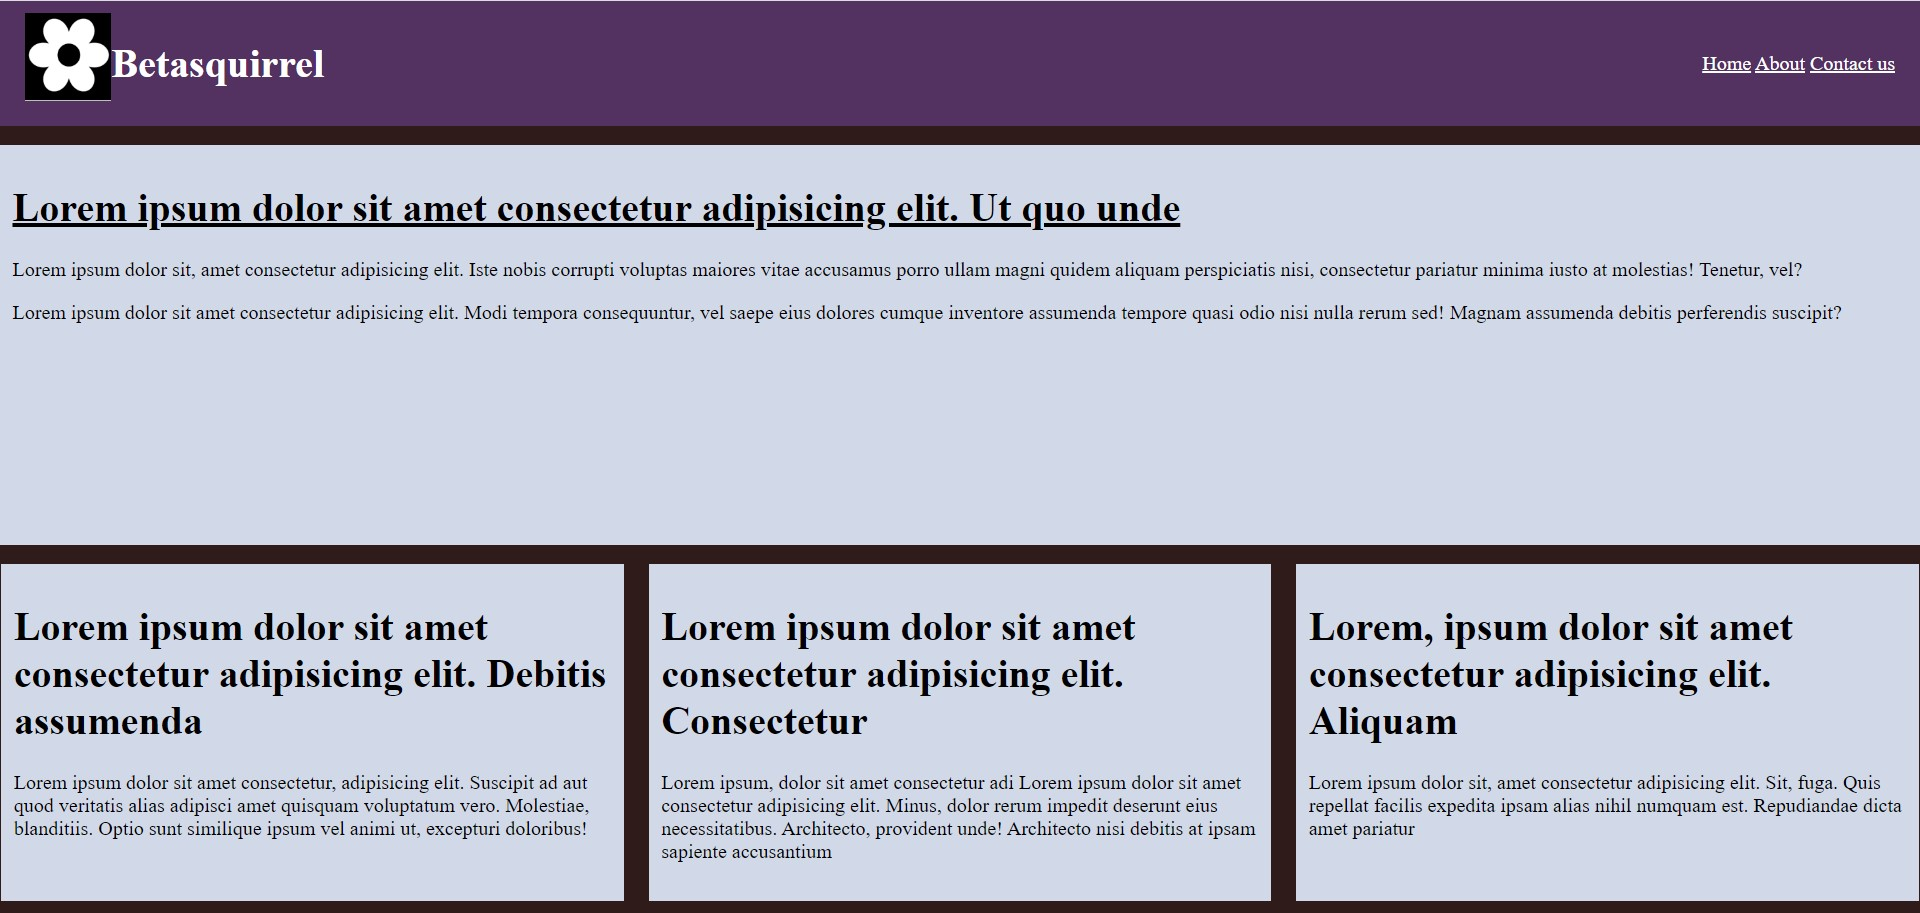
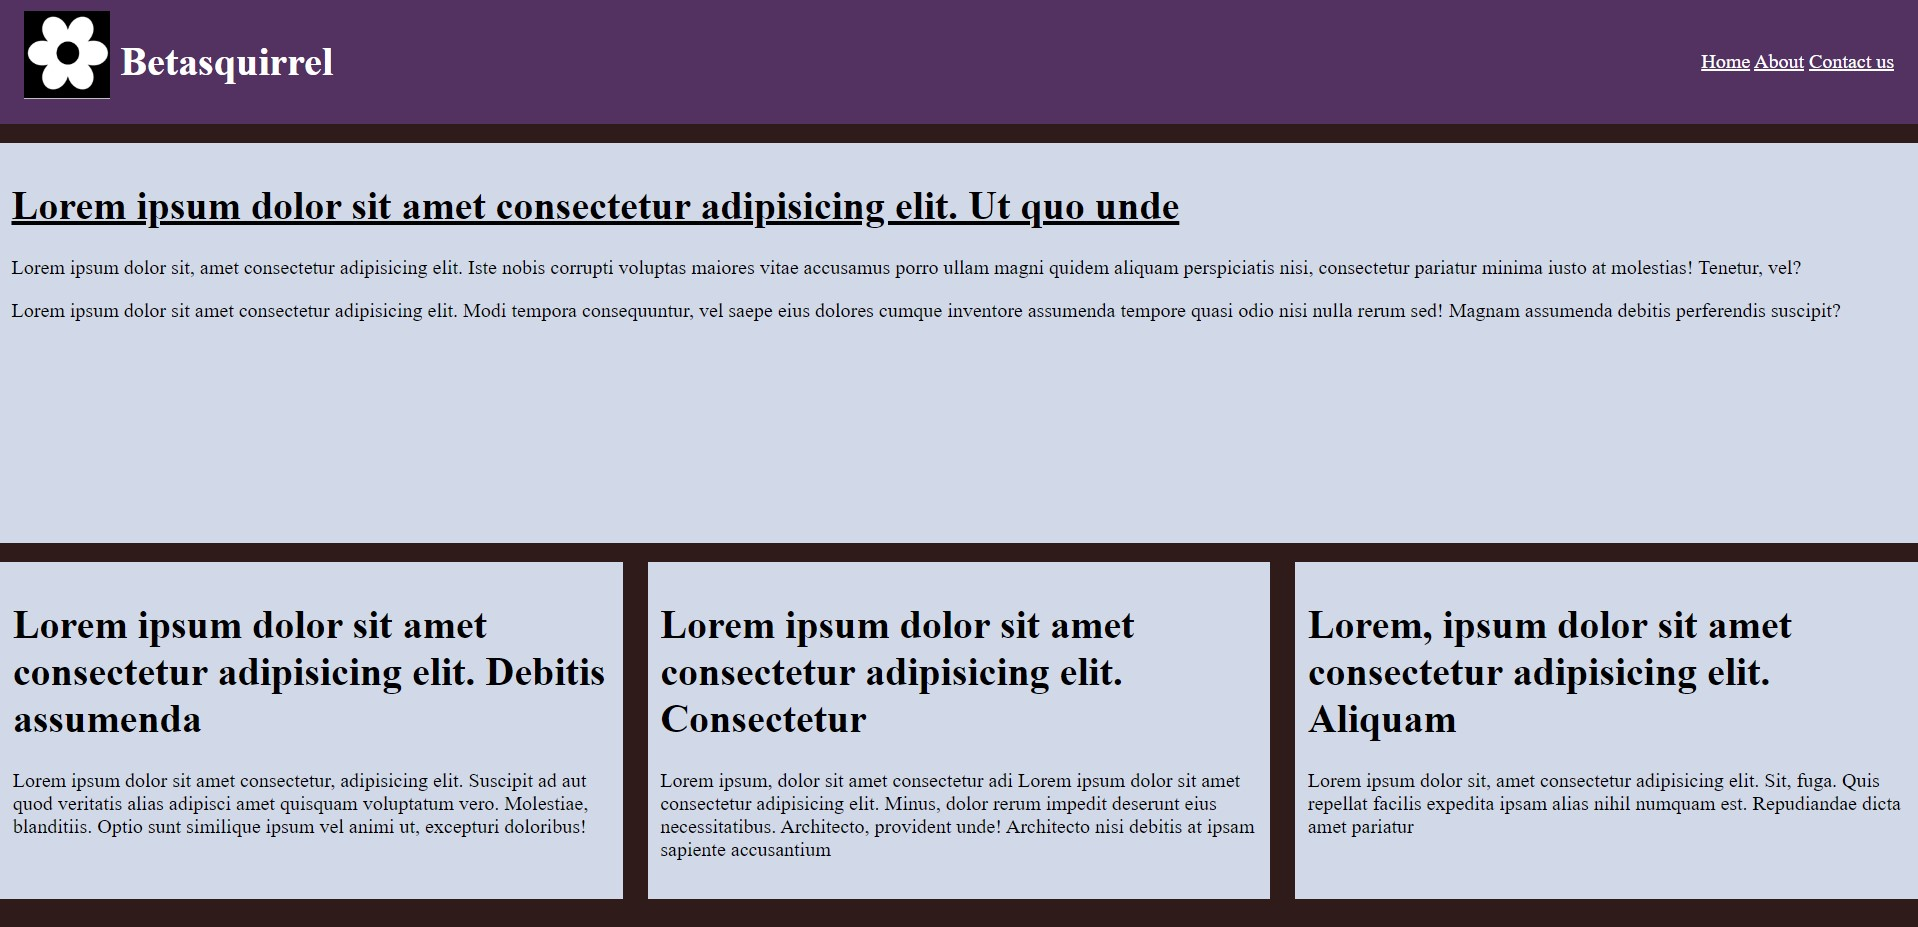
commiting coding-task

diff --git a/task-2/css/style.css b/task-2/css/style.css
@@ -58,10 +58,13 @@ div {
   display: flex;
 }
 .left img {
-  height: 70px;
+  height: 60px;
+  width: 50px;
+  margin-right: 8px;
+
 }
 .left h2 {
-  display: inline;
+  display: inline-block;
   color: white;
 }
 .right a {
@@ -78,11 +81,13 @@ div {
   .box one {
     width: 80%;
     margin-bottom: 20%;
+    margin-right: 5px;
     float: left;
   }
   .box two {
     width: 80%;
     float: left;
+    margin-right: 5px;
   }
   #navbar {
     height: 100px;

diff --git a/task-1/css/style.css b/task-1/css/style.css
@@ -45,6 +45,7 @@ div {
 }
 .left img {
   height: 70px;
+  margin-right: 8px;
 }
 .left h1 {
   display: inline;
